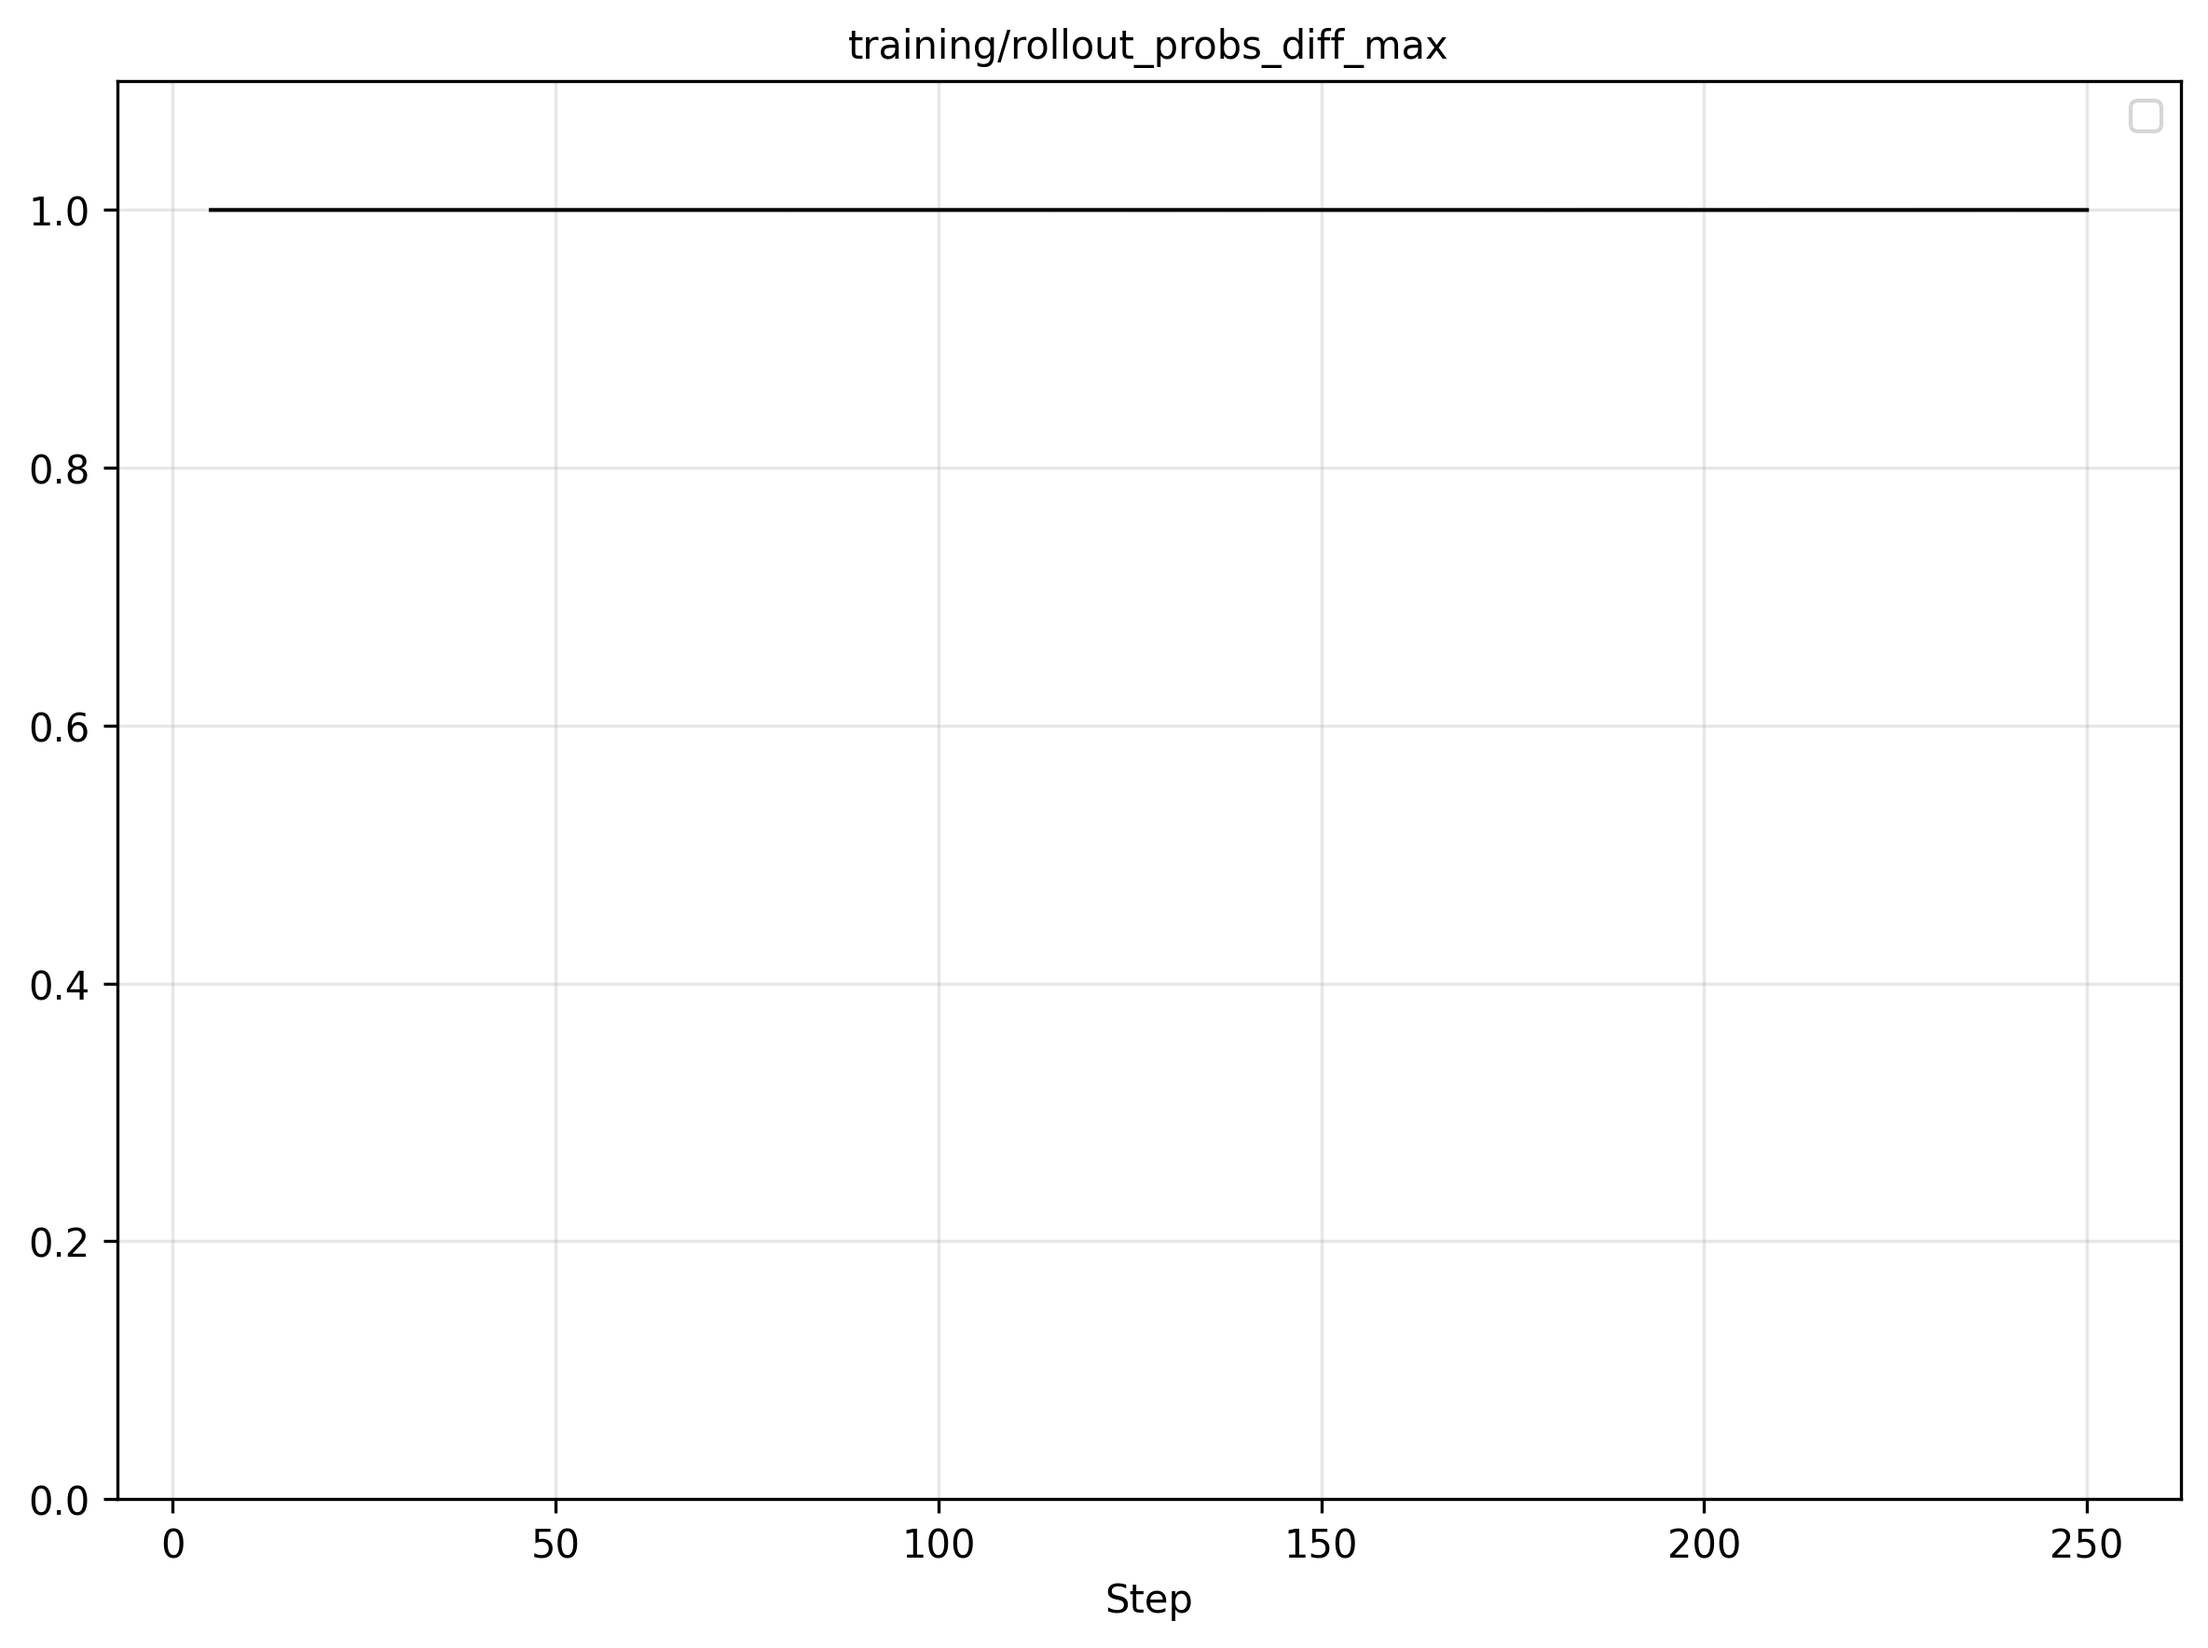
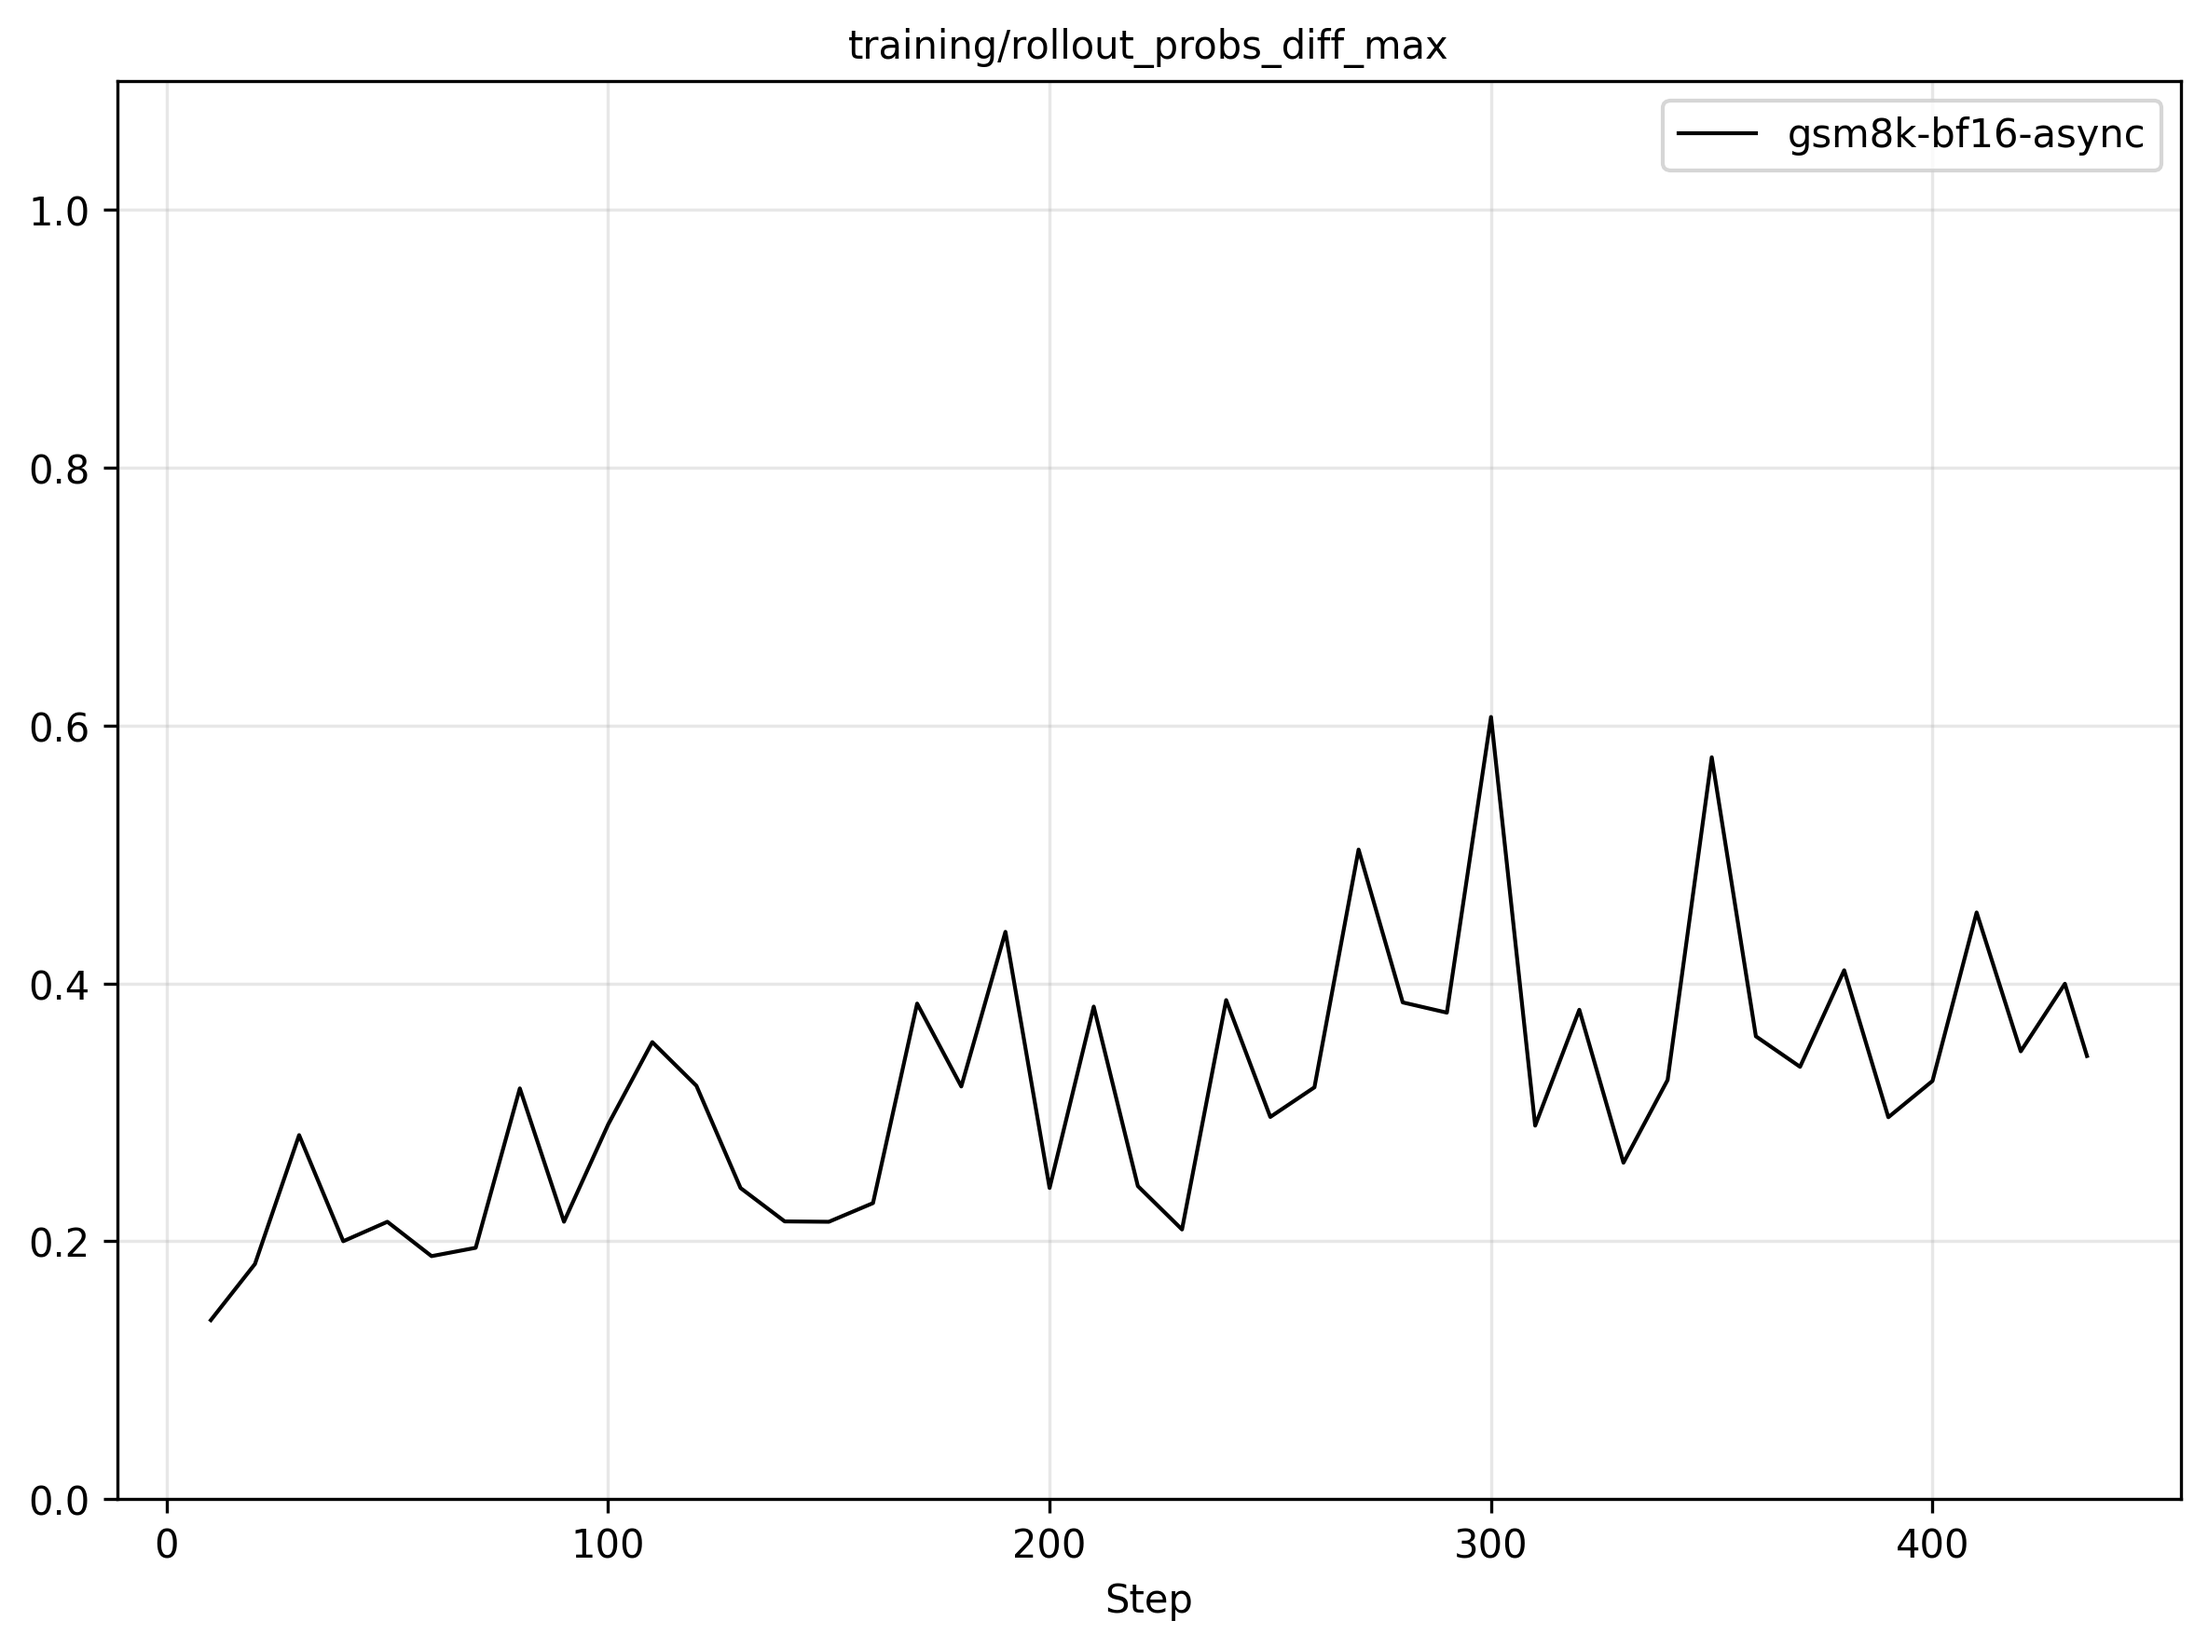
update

diff --git a/draw.py b/draw.py
@@ -3,13 +3,17 @@ import matplotlib.pyplot as plt
 import pandas as pd
 import numpy as np
 import os
-from utils_draw import plot_metrics, plot_comparison_metrics
+from utils_draw import plot_metrics, plot_comparison_metrics, plot_four_curves_comparison
+
 
 os.environ["WANDB_BASE_URL"] = "https://microsoft-research.wandb.io"
 api = wandb.Api()
 
-metrics = ["training/rollout_probs_diff_max", "training/rollout_probs_diff_min", 
+metrics_dapo = ["training/rollout_probs_diff_max", "training/rollout_probs_diff_min", 
            "train/vllm_kl", "val-core/math_dapo/acc/mean@32"]
+
+metrics_gsm8k = ["training/rollout_probs_diff_max", "training/rollout_probs_diff_min", 
+           "training/vllm_kl", "val-core/openai/gsm8k/reward/mean@1"]
 
 FIG_SIZE = (8, 6)
 
@@ -26,8 +30,6 @@ def get_run_data(run, metrics=None):
     print(f"Available metrics: {list(history_df.columns)}")
     return history_df
 
-
-
 def concatenate_runs(df1, df2, run1_name, run2_name):
     """
     拼接两个run的数据
@@ -42,7 +44,8 @@ def concatenate_runs(df1, df2, run1_name, run2_name):
     return combined_df
 
 
-if __name__ == "__main__":
+
+def main_dapo():
     # flash-baseline-T1-cleanedX
     # run1 = api.run("lucliu/flash/7246460007.18494-7196d987-b98d")
     # run2 = api.run("lucliu/flash/7246254745.98941-7cffd556-a37f")
@@ -53,7 +56,7 @@ if __name__ == "__main__":
     # print("Saved combined_df to /Users/narsilzhang/Codes/FlashRL/data/flash-baseline-T1-cleanedX.csv")
     print("\n=== Plotting flash-baseline-T1-cleanedX Metrics ===")
     history_df1 = pd.read_csv("/Users/narsilzhang/Codes/FlashRL/data/flash-baseline-T1-cleanedX.csv")
-    plot_metrics(history_df1, metrics, save_dir="/Users/narsilzhang/Codes/FlashRL/figures")
+    plot_metrics(history_df1, metrics_dapo, save_dir="/Users/narsilzhang/Codes/FlashRL/figures")
 
 
     ## flash-bf16-fp32head-async-T1.0-cleanedX
@@ -67,7 +70,7 @@ if __name__ == "__main__":
 
 
     print("\n=== Plotting Comparison: flash-baseline-T1-cleanedX vs Run3 (lash-bf16-fp32head-async-T1.0-cleanedX) ===")
-    plot_comparison_metrics(history_df1, history_df3, metrics, 
+    plot_comparison_metrics(history_df1, history_df3, metrics_dapo, 
             save_dir="/Users/narsilzhang/Codes/FlashRL/figures",  # change this to your own dir
             label1="flash-baseline-T1-cleanedX", 
             label2="flash-bf16-fp32head-async-T1.0-cleanedX",
@@ -84,8 +87,61 @@ if __name__ == "__main__":
     # plot_metrics(history_df4, metrics, save_dir="/Users/narsilzhang/Codes/FlashRL/figures", label="flash-bf16-all-async-nclip2-sHack-T1-cleanedX")
 
     print("\n=== Plotting Comparison: flash-baseline-T1-cleanedX vs Run4 (flash-bf16-all-async-nclip2-sHack-T1-cleanedX) ===")
-    plot_comparison_metrics(history_df1, history_df4, metrics, 
+    plot_comparison_metrics(history_df1, history_df4, metrics_dapo, 
             save_dir="/Users/narsilzhang/Codes/FlashRL/figures", 
             label1="flash-baseline-T1-cleanedX", 
             label2="flash-bf16-all-async-nclip2-sHack-T1-cleanedX",
             file_prefix="comparison")
+
+
+def main_gsm8k():
+    # gsm8k-PPO-Qwen2.5-0.5B-bf16-sync-case_study
+    # lucliu/GSM8K-PPO-new/7jcy4uqx
+    
+    # gsm8k-PPO-Qwen2.5-0.5B-w8a8-redhat-sync-api5-case_study-378
+    # lucliu/GSM8K-PPO-new/iyy3zio8
+    
+    # gsm8k-PPO-Qwen2.5-0.5B-w8a8-redhat-sHack-async-api5-nclip2-case_study
+    # lucliu/GSM8K-PPO-new/ezheqy5a
+
+    # gsm8k-PPO-Qwen2.5-0.5B-bf16-redhat-async-api5-nclip2-case_study-378
+    # lucliu/GSM8K-PPO-new/ntagwwsg
+    
+    # Get data for all four runs
+    run1 = api.run("lucliu/GSM8K-PPO-new/7jcy4uqx")
+    run2 = api.run("lucliu/GSM8K-PPO-new/iyy3zio8")
+    run3 = api.run("lucliu/GSM8K-PPO-new/ezheqy5a")
+    run4 = api.run("lucliu/GSM8K-PPO-new/ntagwwsg")
+    
+    history_df1 = get_run_data(run1, metrics_gsm8k)
+    history_df2 = get_run_data(run2, metrics_gsm8k)
+    history_df3 = get_run_data(run3, metrics_gsm8k)
+    history_df4 = get_run_data(run4, metrics_gsm8k)
+    
+    # Save dataframes
+    history_df1.to_csv("/Users/narsilzhang/Codes/FlashRL/data/gsm8k-bf16-sync.csv", index=False)
+    history_df2.to_csv("/Users/narsilzhang/Codes/FlashRL/data/gsm8k-w8a8-sync.csv", index=False)
+    history_df3.to_csv("/Users/narsilzhang/Codes/FlashRL/data/gsm8k-w8a8-async.csv", index=False)
+    history_df4.to_csv("/Users/narsilzhang/Codes/FlashRL/data/gsm8k-bf16-async.csv", index=False)
+    
+    print("Saved all GSM8K dataframes")
+    
+    # Plot individual metrics for each run
+    # print("\n=== Plotting Individual GSM8K Metrics ===")
+    # plot_metrics(history_df1, metrics_gsm8k, save_dir="/Users/narsilzhang/Codes/FlashRL/figures", label="gsm8k-bf16-sync")
+    # plot_metrics(history_df2, metrics_gsm8k, save_dir="/Users/narsilzhang/Codes/FlashRL/figures", label="gsm8k-w8a8-sync")
+    # plot_metrics(history_df3, metrics_gsm8k, save_dir="/Users/narsilzhang/Codes/FlashRL/figures", label="gsm8k-w8a8-async")
+    # plot_metrics(history_df4, metrics_gsm8k, save_dir="/Users/narsilzhang/Codes/FlashRL/figures", label="gsm8k-bf16-async")
+    
+    # Plot comparison with all four curves in one plot
+    print("\n=== Plotting Comparison: All Four GSM8K Runs ===")
+    plot_four_curves_comparison([history_df1, history_df2, history_df3, history_df4], 
+                               metrics_gsm8k,
+                               labels=["gsm8k-bf16-sync", "gsm8k-w8a8-sync", "gsm8k-w8a8-async", "gsm8k-bf16-async"],
+                               save_dir="/Users/narsilzhang/Codes/FlashRL/figures",
+                               file_prefix="gsm8k_comparison")
+
+
+if __name__ == "__main__":
+    # main_dapo()
+    main_gsm8k()

diff --git a/utils_draw.py b/utils_draw.py
@@ -6,8 +6,8 @@ import os
 
 
 
-metrics = ["training/rollout_probs_diff_max", "training/rollout_probs_diff_min", 
-           "train/vllm_kl", "val-core/math_dapo/acc/mean@32"]
+# metrics = ["training/rollout_probs_diff_max", "training/rollout_probs_diff_min", 
+#            "train/vllm_kl", "val-core/math_dapo/acc/mean@32"]
 
 FIG_SIZE = (8, 6)
 
@@ -150,4 +150,80 @@ def plot_comparison_metrics(combined_df, run3_df, metrics_to_plot=None,
         print(f"Saved comparison plot for {metric} to {save_path}")
         
         # plt.show()
+        plt.close()
+
+
+
+def plot_four_curves_comparison(dataframes, metrics_to_plot=None, labels=None, 
+                               save_dir="./", max_step=None, file_prefix="comparison"):
+    """
+    绘制四条曲线的对比图
+    
+    Args:
+        dataframes: 包含四个DataFrame的列表
+        metrics_to_plot: 要绘制的指标列表
+        labels: 四条曲线的标签列表
+        save_dir: 图片保存目录
+        max_step: _step的最大值，超过这个值的数据点不会被绘制
+        file_prefix: 文件名前缀
+    """
+    if len(dataframes) != 4 or len(labels) != 4:
+        print("Error: Need exactly 4 dataframes and 4 labels")
+        return
+    
+    # 检查所有DataFrame是否都有_step列
+    for i, df in enumerate(dataframes):
+        if '_step' not in df.columns:
+            print(f"'_step' column not found in dataframe {i}")
+            return
+    
+    # 获取要绘制的指标
+    if metrics_to_plot is None:
+        numeric_columns = dataframes[0].select_dtypes(include=['float64', 'int64']).columns
+        metric_columns = [col for col in numeric_columns if not col.startswith('_')]
+    else:
+        metric_columns = [col for col in metrics_to_plot if all(col in df.columns for df in dataframes)]
+    
+    print(f"Found comparison metrics: {metric_columns}")
+    
+    if len(metric_columns) == 0:
+        print("No metrics found to plot.")
+        return
+    
+    # 定义四种颜色
+    colors = ['#1f77b4', '#ff7f0e', '#2ca02c', '#d62728']  # 蓝色、橙色、绿色、红色
+    
+    # 为每个指标创建对比图
+    for metric in metric_columns:
+        plt.figure(figsize=FIG_SIZE)
+        
+        # 绘制四条曲线
+        for i, (df, label, color) in enumerate(zip(dataframes, labels, colors)):
+            non_na_data = df.dropna(subset=[metric])
+            if max_step is not None:
+                non_na_data = non_na_data[non_na_data['_step'] <= max_step]
+            if not non_na_data.empty:
+                plt.plot(non_na_data['_step'], non_na_data[metric], 
+                        color=color, linewidth=2, alpha=0.8,
+                        label=label)
+        
+        plt.xlabel('Step', fontsize=10)
+        plt.title(f'{metric}', fontsize=10)
+        
+        # Set y-axis limits based on metric
+        if metric == 'training/rollout_probs_diff_max':
+            plt.ylim(0., 1.1)
+        elif metric == 'training/rollout_probs_diff_min':
+            plt.ylim(-1., 0.)
+        
+        plt.legend(fontsize=10)
+        plt.grid(True, alpha=0.3)
+        plt.tight_layout()
+        
+        # 保存对比图
+        safe_filename = metric.replace('/', '_').replace('@', '_at_')
+        save_path = f"{save_dir}/{file_prefix}_{safe_filename}.png"
+        plt.savefig(save_path, dpi=300, bbox_inches='tight')
+        print(f"Saved four-curve comparison plot for {metric} to {save_path}")
+        
         plt.close()
